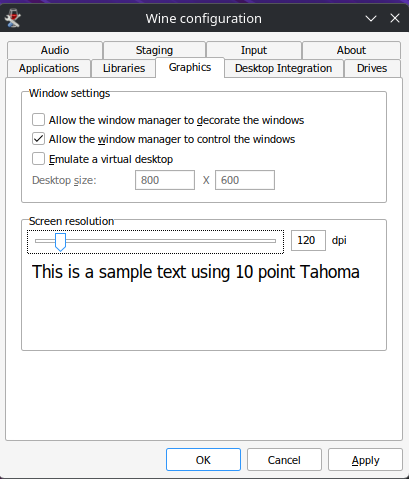
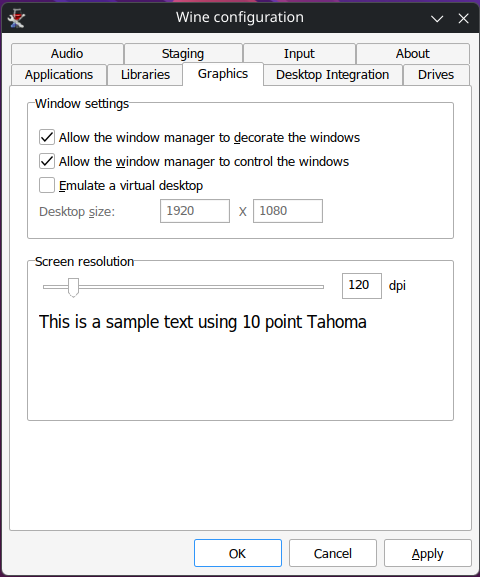
Reviewing first draft of the tutorial

Changed region(s): [[0.0, 0.0, 1.0, 1.0]]

diff --git a/docs/06-ik-multimedia.md b/docs/06-ik-multimedia.md
@@ -60,15 +60,6 @@ wine ~/.wine/drive_c/Program\ Files/IK\ Multimedia/IK\ Product\ Manager/IK\ Prod
 
 **Note**: This is useful if you want to create a launcher script or terminal alias.
 
-### Verify WineASIO is Available
-
-When IK Product Manager launches, check the settings:
-
-1. Go to **Settings** or **Preferences**
-2. Look for **Audio Driver** or **ASIO** settings
-3. You should see **WineASIO** available as an option
-
-![WineASIO Configuration](assets/wine_configuration_cachy.png)
 
 ## Step 4: Install Amplitube and Tonex
 
@@ -93,35 +84,7 @@ The installation typically goes to:
 - `~/.wine/drive_c/Program Files/IK Multimedia/TONEX/`
 - `~/.wine/drive_c/Program Files/IK Multimedia/Amplitube/`
 
-## Step 5: Configure WineASIO Settings
-
-Before running Amplitube or Tonex, configure the ASIO driver:
-
-```bash
-wineasio-settings
-```
-
-### WineASIO Configuration Window
-
-![WineASIO Settings](assets/winasio_resigter.png)
-
-### Recommended Settings
-
-Configure based on your audio interface:
-
-| Setting | Value | Notes |
-|---------|-------|-------|
-| **Input Channels** | 2 | Stereo input (match your interface) |
-| **Output Channels** | 4 | Stereo + extra (match your interface) |
-| **Buffer Size** | 128 samples | Matches PipeWire configuration |
-
-**Note**: Adjust input/output channels to match your audio interface specifications.
-
-### Apply Settings
-
-Click **Apply** to save the configuration.
-
-## Step 6: Run Tonex with Real-Time Priority
+## Step 5: Run Tonex with Real-Time Priority
 
 Tonex should be launched with real-time scheduling for optimal performance:
 
@@ -142,8 +105,8 @@ When Tonex starts:
 
 1. **Audio Driver Settings**:
    - Select **WineASIO** as the audio driver
-   - Set sample rate to **48000 Hz**
-   - Set buffer to **128 samples**
+   - The sample rate is automatically set to **48000 Hz**
+   - The buffer is automatically set to **128 samples**
 
 2. **Input/Output Configuration**:
    - Input: Select your audio interface input
@@ -151,6 +114,8 @@ When Tonex starts:
 
 3. **Save Settings**:
    - These persist for future launches
+
+![TONEX settings using WinASIO](resources/tonex_settings.png)
 
 ### Create a Launcher Script (Optional)
 
@@ -190,9 +155,12 @@ chrt -f 70 wine ~/.wine/drive_c/Program\ Files/IK\ Multimedia/Amplitube/Amplitub
 ### First Launch
 
 1. Configure **WineASIO** as audio driver
-2. Set sample rate to **48000 Hz**
-3. Set buffer to **128 samples**
-4. Select your audio interface inputs/outputs
+   - The sample rate is automatically set to **48000 Hz**
+   - The buffer is automatically set to **128 samples**
+2. Select your audio interface inputs/outputs
+
+
+![Amplitube settings using WinASIO](resources/amplitube_settings.png)
 
 ## Step 8: Using Amplitube and Tonex
 
@@ -225,11 +193,7 @@ With proper configuration:
 
 ## Running Amplitube as a Plugin
 
-Amplitube can also be used as an audio plugin (VST/AU) within other DAWs:
-
-- The VST will be installed to `~/.wine/drive_c/Program Files (x86)/Common Files/VST/`
-- Wine DAWs (like Reaper, Studio One via Wine) can load and use it
-- Similar real-time priority and ASIO configuration applies
+To be completed.
 
 ## Troubleshooting
 
@@ -272,12 +236,10 @@ Amplitube can also be used as an audio plugin (VST/AU) within other DAWs:
 3. **Run with real-time priority**: Use `chrt -f 70` prefix
 4. **Disable other effects**: Each effect adds processing time
 
-### WineASIO Settings Lost After Reboot
-
-This is normal. The `wineasio-settings` app stores configuration, but may reset. You can:
-1. Save configuration files manually
-2. Create a startup script to configure on launch
-3. Or reconfigure each session (usually quick once you know the settings)
+### The mouse cursor disappears (in Amplitube)
+- This can happen if you switch focus away from AmpliTube to another application, for example during AmpliTube startup.
+- As a workaround, quickly move the mouse pointer in circles until it reappears (often at a larger size). Then click on an 
+  AmpliTube menu or GUI element until the mouse cursor becomes visible again over the application.
 
 ## Performance Tips
 

diff --git a/docs/01-prerequisites.md b/docs/01-prerequisites.md
@@ -1,8 +1,35 @@
 # Prerequisites & Package Installation
 
-Before you begin, ensure you have administrative access via `sudo` and a working internet connection.
+
+## Step 0: Installing CachyOS
+
+If you haven't installed CachyOS yet, you'll need to complete the installation first.
+
+### Installation Resources
+
+**Official Documentation:**
+- [CachyOS Installation Guide](https://wiki.cachyos.org/installation/installation_on_root/) - Comprehensive step-by-step installation instructions
+
+**Video Tutorial:**
+- [CachyOS Installation Video Guide](https://www.youtube.com/watch?v=rJcrb7vxoCo) - Visual walkthrough of the installation process
+
+### Quick Overview
+
+The CachyOS installer provides:
+- Automatic partitioning or manual control
+- Desktop environment selection (KDE, GNOME, etc.)
+- Pre-configured performance optimizations
+- Easy dual-boot setup if needed
+
+Once CachyOS is installed and you've booted into your system, proceed with the steps below.
 
 ## Step 1: Update System
+
+The commands in this tutorial require a Linux terminal. On CachyOS with KDE, the default terminal is Konsole.
+
+Before you begin, make sure you have administrative access via `sudo` and a working internet connection.
+
+You can copy commands with **Ctrl+C** and paste them into the termina (with **Ctrl+Shift+V**).
 
 First, ensure your CachyOS system is up to date:
 
@@ -23,6 +50,16 @@ sudo pacman -S pipewire-jack \
                 cpupower
 ```
 
+### Resolving Package Conflicts
+
+If prompted about conflicting packages:
+
+```
+:: pipewire-jack-1:1.4.10-1.1 and jack-0.126.0-6 are in conflict. Remove jack? [y/N]
+```
+
+**Answer: `y`** - We're using PipeWire's JACK compatibility, not standalone JACK.
+
 ### Package Explanations
 
 | Package | Purpose |
@@ -34,15 +71,6 @@ sudo pacman -S pipewire-jack \
 | `winetricks` | Helper script to install Windows software/DLLs in Wine |
 | `cpupower` | Tool for CPU frequency scaling and performance tuning |
 
-### Resolving Package Conflicts
-
-If prompted about conflicting packages:
-
-```
-:: pipewire-jack-1:1.4.10-1.1 and jack-0.126.0-6 are in conflict. Remove jack? [y/N]
-```
-
-**Answer: `y`** - We're using PipeWire's JACK compatibility, not standalone JACK.
 
 ## Step 3: Install Additional Audio Tools
 
@@ -80,7 +108,7 @@ You should see output like:
 wine-10.0-20260101 (CachyOS)
 ```
 
-## Step 4: Create Wine Prefix
+## Step 4: Create wine64 symbolic link
 
 Create a symbolic link that WineASIO needs:
 
@@ -96,11 +124,9 @@ Proceed to [Wine & DXVK Setup](02-wine-setup.md) to configure your Wine environm
 
 ## Troubleshooting
 
-**Q: Installation fails with "package not found"**  
+**Q: Installation fails with "package not found" or complaining about a corrupted package**  
 A: Run `sudo pacman -Syu` first to sync package databases, then try again.
 
 **Q: Wine version doesn't show CachyOS?**  
 A: You may have a different Wine installation. Reinstall with `sudo pacman -S wine-cachyos`.
 
-**Q: `paru` command not found?**  
-A: Install with `sudo pacman -S paru`, or use `yay` if you prefer.

diff --git a/docs/03-system-optimization.md b/docs/03-system-optimization.md
@@ -50,6 +50,20 @@ echo -1 | sudo tee /sys/module/usbcore/parameters/autosuspend
 - Audio interfaces are USB devices that need consistent power delivery
 - This prevents the OS from suspending your audio interface
 
+### Make settings persist after a reboot
+
+The above settings will disappear after a reboot. To preserve them, use the `studio-mode.service` systemd service provided in the `scripts` folder. This service automatically applies all the above settings on boot.
+
+To install it:
+
+```bash
+sudo cp scripts/studio-mode.service /etc/systemd/system/
+sudo systemctl daemon-reload
+sudo systemctl enable studio-mode.service
+sudo systemctl start studio-mode.service
+```
+
+
 ## Step 2: Kernel Parameters for Preemption
 
 Full kernel preemption is critical for real-time performance.
@@ -164,6 +178,15 @@ Spectre/Meltdown Mitigations
 
 Proceed to [Audio Interface Configuration](04-audio-interface.md) to set up your audio hardware.
 
+## Alternative Solutions
+
+There are alternative methods to persist these settings (CPU scaling performance, SMT, swappiness, and USB autosuspend). The systemd service approach above is provided for simplicity and portability. In the scripts folder, I also provide an `apply-audio-tuning.sh` script that can be run on demand with sudo:
+
+```bash
+chmod +x scripts/apply-audio-tuning.sh
+sudo scripts/apply-audio-tuning.sh
+```
+
 ---
 
 ## Troubleshooting
@@ -171,11 +194,6 @@ Proceed to [Audio Interface Configuration](04-audio-interface.md) to set up your
 **Q: `rtcqs` shows FAIL for preemption**  
 A: Make sure you rebooted after running `grub-mkconfig`. Changes don't take effect until next boot.
 
-**Q: CPU doesn't stay at performance frequency**  
-A: Your CPU governor might be resetting. The performance mode from `cpupower` persists during the session but resets on reboot. You can make it permanent by:
-```bash
-sudo systemctl enable cpupower
-```
 
 **Q: Audio group membership not recognized**  
 A: You must log out completely and log back in. Session restart alone won't work. Try opening a new terminal to confirm: `groups $USER` should show "audio".

diff --git a/docs/02-wine-setup.md b/docs/02-wine-setup.md
@@ -19,7 +19,7 @@ This opens the Wine configuration dialog and creates a `.wine` directory in your
 #### Application Tab
 - **Windows Version**: Select **Windows 11**
 
-This ensures compatibility with modern Windows applications like Amplitube and Tonex.
+This ensures compatibility with modern Windows applications like Amplitube and Tonex. For now, leaving it on Windows 10 also works fine.
 
 ## Step 2: Graphics Settings
 
@@ -28,10 +28,9 @@ While still in `winecfg`, switch to the **Graphics** tab:
 ![Graphics Tab Configuration](resources/wine_configuration_cachy_graphics.png)
 
 #### Recommended Settings
-- **Uncheck**: "Windows decorations" 
-  - This removes the window frame, giving better screen space and preventing conflicts with the audio plugin UI
+You can leave the default settings. However, on large screens, I prefer to increase the screen resolution to 120 dpi.
 
-- Leave other settings at defaults
+The "Emulate a virtual desktop" option may be useful if you have issues with the mouse cursor rendering over Wine applications. I leave it unchecked.
 
 Click **OK** to save and close.
 
@@ -82,10 +81,6 @@ You should see output confirming registration was successful.
 - **Better Performance**: Vulkan is more efficient than DirectX translation
 - **GPU Acceleration**: Uses your GPU for rendering the plugin UI
 - **Stability**: Tested with modern graphics cards
-
-### Why Disable Windows Decorations?
-- **Screen Space**: Maximizes usable area in the plugin window
-- **UI Conflicts**: Some audio plugins have rendering issues with window decorations
 
 ### Why ASIO?
 - **Professional Standard**: ASIO is the industry standard for low-latency audio on Windows

diff --git a/docs/04-audio-interface.md b/docs/04-audio-interface.md
@@ -37,16 +37,6 @@ device.nick = "HD-Audio Generic"
 
 **Your audio interface will be one of these** (usually the most recognizable name, like "AXE I/O SOLO").
 
-### Finding Device Properties
-
-For more detailed information about your device:
-
-```bash
-pw-cli list-objects Device
-```
-
-This shows full device specifications including sample rates, channels, and available profiles.
-
 ## Step 3: Configure WirePlumber for Your Interface
 
 Create device-specific WirePlumber configuration:
@@ -214,6 +204,15 @@ If these match your configuration, you're set!
 | Built-in Audio | "HD-Audio Generic" or "HDA..." |
 
 If your interface isn't listed, connect it and run `pw-cli list-objects Device` again.
+
+## Step 9: WineASIO configuration
+Run `wineasio-settings` and configure the channels for your audio interface. For example, set 2 input channels and 4 output channels (adjust according to your specific hardware). Set the buffer size to 128 samples, as shown in the figure below.
+
+> **Note:** These settings may not always be used, as some applications override them with their own configuration.
+
+![WineASIO configuration](resources/wineasio_settings.png)
+
+
 
 ## Next Steps
 

diff --git a/docs/05-latency-testing.md b/docs/05-latency-testing.md
@@ -25,7 +25,7 @@ Set up a loopback cable for testing:
    - Input: instrument input (1/4" jack)
    - Output: main stereo balanced output (XLR)
 
-![Audio Interface Loopback Setup](resources/Screenshot_20260201_014820.png)
+![Audio Interface Loopback Setup](resources/audiointerface_loopback_setup.jpg)
 
 ## Step 2: Start the Latency Measurement Tool
 
@@ -196,4 +196,4 @@ Once you've confirmed acceptable latency (< 12ms), proceed to [IK Multimedia Ins
 
 ## Video Demonstration
 
-See [Jack_delay_test.mp4](resources/jack_delay_test.mp4) for a step-by-step video walkthrough of the latency testing procedure.
+See [Jack_delay_test.mp4](resources/jack_delay_test.mp4) for a video showing the latency testing procedure.
